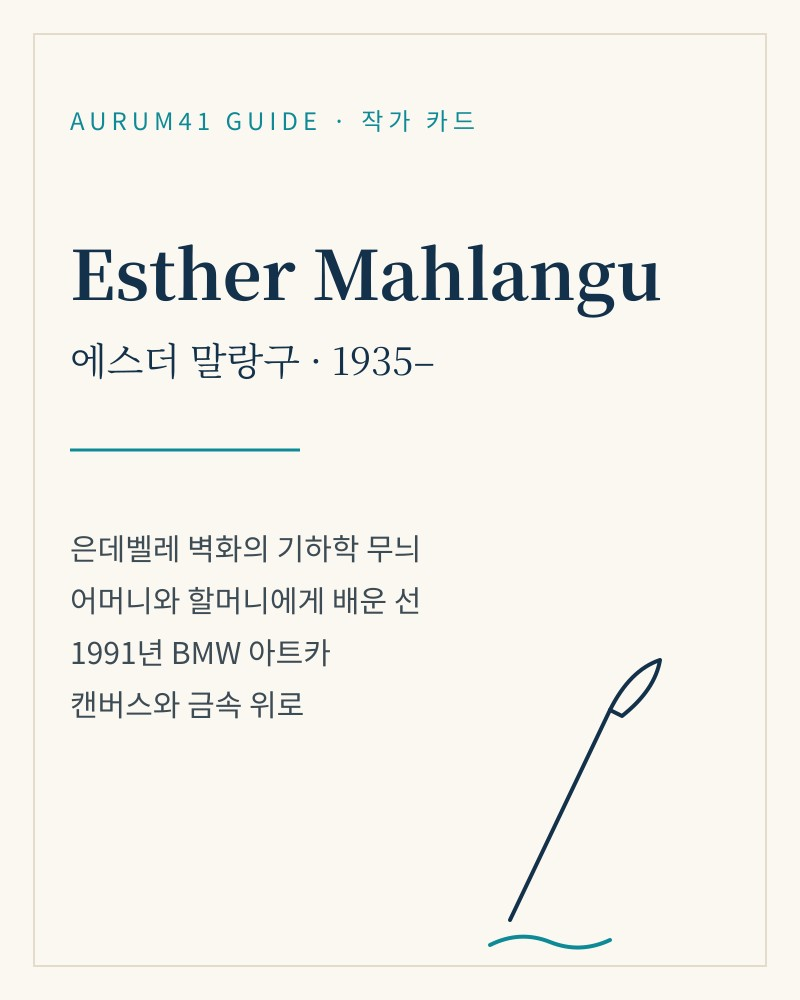
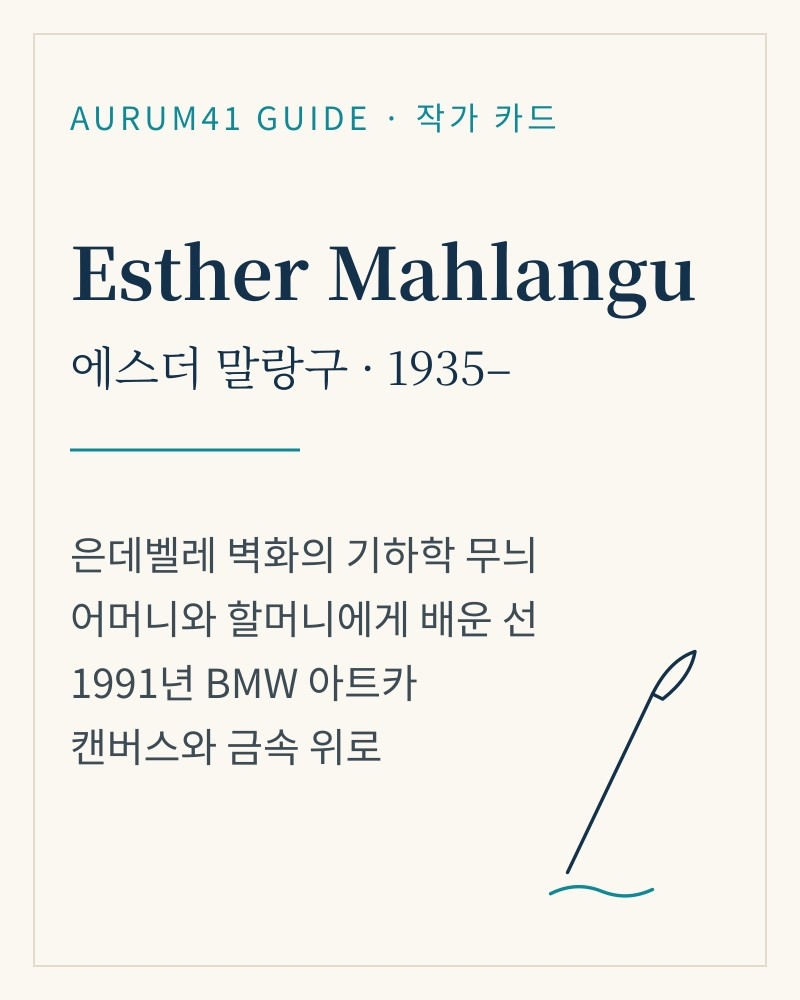
capetown KO z6: artist cards larger text (>=14px on screen)
Claude-Session: https://claude.ai/code/session_01F9LRgiTeBmkJ7htWjS4QcD

diff --git a/blog/capetown/patch/story_1126z6_ko.html b/blog/capetown/patch/story_1126z6_ko.html
@@ -459,7 +459,7 @@ html:not(#z1):not(#z2) .contents_style .fact{background:#EEF7F8!important;border
 <p data-ke-size="size16">덕분에 그 만년필들은 받을 사람보다 남아공 세관에 먼저 인사를 했어요. 수업료&nbsp;2회차, 한&nbsp;자루당 10%.</p>
 <p data-ke-size="size16">처음 손에 쥔 랜드 지폐는 생각보다 빳빳했어요. 초록빛 10랜드엔 코뿔소, 빨간 50랜드엔 사자가 있고, 액수가 클수록 지폐도 조금씩 길어지더라고요. 관세를 내려고 랜드 지폐를 꺼내다 보니, 지폐마다 같은 얼굴이 있더라고요. 넬슨 만델라예요. 궁금해서 찾아보니 2012년부터 모든 지폐 앞면에 만델라가, 뒷면엔 코뿔소·코끼리·사자·버펄로·표범, 이른바 '빅 파이브'가 들어갔대요. 랜드라는 돈은 1961년, 남아공이 영국 파운드를 내려놓고 공화국이 되던 해에 생겼고요. 더 거슬러 올라가 보니 케이프는 1806년부터 영국이 다스렸고, 영국 자치령이던 남아프리카 연방(1910년~) 시절부터 원주민 토지법(1913년) 같은 분리 법이 쌓이다가, 1948년 집권한 국민당 정부가 그걸 아파르트헤이트라는 제도로 굳혔더라고요. 그 제도에 맞서다 27년을 감옥에서 보낸 사람이, 지금 제가 내민 지폐 앞면에 있는 셈이었어요.</p>
 <p data-ke-size="size16">다음에 선물을 들고 국경을 넘을 땐 상대국 면세 한도부터 보려고요. 같은 물건이 여러 개면 상업용으로 볼 수도 있다더라고요.</p>
-<div class="ag-art ag-pause"><p class="ag-art-l" data-ke-size="size16">잠깐, 쉬어 가며</p><div class="ag-art-e ag-art-has"><figure class="ag-art-f fr-card"><img class="afr" src="https://41aurum.github.io/blog/capetown/mag2/card_esther_ko.jpg?v=1" alt="에스더 말랑구 작가 카드 — 은데벨레 벽화의 기하학 무늬, 1991년 BMW 아트카" width="800" height="1000" /><figcaption class="ag-art-c">아우름41 작가 카드 · 작품은 아래 버튼에서 볼 수 있어요</figcaption></figure><div class="ag-art-b"><p class="ag-art-n ic-pal" data-ke-size="size16">에스더 말랑구 (Esther Mahlangu, 1935–)</p><p class="ag-art-p" data-ke-size="size16">세관에서 털린 마음을 기린 선반 앞에서 달래다가, 한&nbsp;사람이 떠올랐어요.</p><p class="ag-art-p" data-ke-size="size16">제가 알아보니 에스더 말랑구라는 작가가 있더라고요. 남아공 은데벨레 여성들이 집 바깥벽에 그려 온 굵은 기하학 무늬를 열 살 무렵 어머니와 할머니에게 배워, 캔버스와 금속으로 옮긴 사람이에요.</p><p class="ag-art-p" data-ke-size="size16">1991년엔 BMW 525i 한&nbsp;대를 통째로 은데벨레 무늬로 칠했대요. BMW 아트카를 맡은 첫 여성이자 첫 비서구 작가였고요. 그 차는 32년 만에 남아공으로 돌아와 케이프타운 이지코 미술관에 전시되기도 했어요.</p><p class="ag-art-p" data-ke-size="size16">이 가게와 직접 관계는 없어요. 그래도 하나하나 다른 기린 무늬 앞에서, 할머니 집 흙벽에서 독일 자동차까지 간 그 선을 떠올려 보는 것도 기념품 가게를 구경하는 또 다른 재미 아닐까 싶네요. 제 그림에도 손으로 그은 선이 많아서, 이 이야기를 떠올리면 선 하나를 더 대담하게 긋게 되더라고요.</p><div class="btns"><a class="btn" href="https://www.artcar.bmwgroup.com/en/art-car/text/Esther-Mahlangu-BMW-525i1991-1375.html" target="_blank" rel="noopener">BMW 아트카 소개 (공식)</a><a class="btn" href="https://en.wikipedia.org/wiki/Esther_Mahlangu" target="_blank" rel="noopener">작가 소개 (Wikipedia)</a></div></div></div></div>
+<div class="ag-art ag-pause"><p class="ag-art-l" data-ke-size="size16">잠깐, 쉬어 가며</p><div class="ag-art-e ag-art-has"><figure class="ag-art-f fr-card"><img class="afr" src="https://41aurum.github.io/blog/capetown/mag2/card_esther_ko.jpg?v=2" alt="에스더 말랑구 작가 카드 — 은데벨레 벽화의 기하학 무늬, 1991년 BMW 아트카" width="800" height="1000" /><figcaption class="ag-art-c">아우름41 작가 카드 · 작품은 아래 버튼에서 볼 수 있어요</figcaption></figure><div class="ag-art-b"><p class="ag-art-n ic-pal" data-ke-size="size16">에스더 말랑구 (Esther Mahlangu, 1935–)</p><p class="ag-art-p" data-ke-size="size16">세관에서 털린 마음을 기린 선반 앞에서 달래다가, 한&nbsp;사람이 떠올랐어요.</p><p class="ag-art-p" data-ke-size="size16">제가 알아보니 에스더 말랑구라는 작가가 있더라고요. 남아공 은데벨레 여성들이 집 바깥벽에 그려 온 굵은 기하학 무늬를 열 살 무렵 어머니와 할머니에게 배워, 캔버스와 금속으로 옮긴 사람이에요.</p><p class="ag-art-p" data-ke-size="size16">1991년엔 BMW 525i 한&nbsp;대를 통째로 은데벨레 무늬로 칠했대요. BMW 아트카를 맡은 첫 여성이자 첫 비서구 작가였고요. 그 차는 32년 만에 남아공으로 돌아와 케이프타운 이지코 미술관에 전시되기도 했어요.</p><p class="ag-art-p" data-ke-size="size16">이 가게와 직접 관계는 없어요. 그래도 하나하나 다른 기린 무늬 앞에서, 할머니 집 흙벽에서 독일 자동차까지 간 그 선을 떠올려 보는 것도 기념품 가게를 구경하는 또 다른 재미 아닐까 싶네요. 제 그림에도 손으로 그은 선이 많아서, 이 이야기를 떠올리면 선 하나를 더 대담하게 긋게 되더라고요.</p><div class="btns"><a class="btn" href="https://www.artcar.bmwgroup.com/en/art-car/text/Esther-Mahlangu-BMW-525i1991-1375.html" target="_blank" rel="noopener">BMW 아트카 소개 (공식)</a><a class="btn" href="https://en.wikipedia.org/wiki/Esther_Mahlangu" target="_blank" rel="noopener">작가 소개 (Wikipedia)</a></div></div></div></div>
 <p data-ke-size="size16">그리고 이 가게에서 동료들 몫 선물을 골랐어요. 돌로 깎은 하마 같은 동물 인형들, 동물 모양 나무로 만든 수제 연필.</p>
 <p data-ke-size="size16">돌이었어요. 이게 나중에 문제가 됩니다.</p>
 </section>
@@ -548,7 +548,7 @@ html:not(#z1):not(#z2) .contents_style .fact{background:#EEF7F8!important;border
 <p data-ke-size="size16">그런데 이 여행에서 가장 오래 남은 장면은 사실 사진에 없어요.</p>
 <p data-ke-size="size16">케이프타운에 도착한 날, 공항에서 시내로 가는 길이었어요. 차창 밖으로 판자를 이어 붙인 집들이 길게 늘어서 있었어요. 바다가 보이는 언덕 위의 집들과, 길가의 그 동네. 같은 도시 안에 너무 다른 풍경이 나란히 있었고, 그 길에서 그 판자촌이 어떤 사람들이 사는 곳인지 분명히 알게 됐어요.</p>
 <div class="fact ic-road"><b>타운십과 아파르트헤이트</b>공항과 시내를 잇는 N2 고속도로는 여러 타운십(township)을 끼고 지나요. 아파르트헤이트(인종 분리) 시대에 1950년 집단지역법으로 백인이 아닌 주민을 도심에서 밀어내 따로 살게 한 동네예요. 법은 1991년에, 아파르트헤이트는 1994년 민주 선거로 끝났지만 타운십은 지금도 그 자리에 있어요.</div>
-<div class="ag-art ag-pause"><p class="ag-art-l" data-ke-size="size16">이 길과 이어진 작가</p><div class="ag-art-e ag-art-has"><figure class="ag-art-f fr-card"><img class="afr" src="https://41aurum.github.io/blog/capetown/mag2/card_peter_ko.jpg?v=1" alt="피터 클라크 작가 카드 — 목판화·콜라주·시, 1972년 오션뷰 강제 이주" width="800" height="1000" /><figcaption class="ag-art-c">아우름41 작가 카드 · 작품은 아래 버튼에서 볼 수 있어요</figcaption></figure><div class="ag-art-b"><p class="ag-art-n ic-pal" data-ke-size="size16">피터 클라크 (Peter Clarke, 1929–2014)</p><p class="ag-art-p" data-ke-size="size16">제가 알아보니 사이먼스타운에서 태어난 화가이자 시인이더라고요. 1972년, 바로 그 집단지역법 때문에 오션뷰로 강제로 옮겨 가야 했대요. 60년 가까이 목판화와 콜라주로 남아공의 사회를 기록해 '조용한 기록자'로 불렸다고 해요.</p><p class="ag-art-p" data-ke-size="size16">제 차창 밖으로 스쳐 간 동네의 안쪽 삶을, 그는 사진 대신 판화로 남겼어요.</p><div class="btns"><a class="btn" href="https://www.sahistory.org.za/people/peter-clarke" target="_blank" rel="noopener">화가 소개 (South African History Online)</a></div></div></div></div>
+<div class="ag-art ag-pause"><p class="ag-art-l" data-ke-size="size16">이 길과 이어진 작가</p><div class="ag-art-e ag-art-has"><figure class="ag-art-f fr-card"><img class="afr" src="https://41aurum.github.io/blog/capetown/mag2/card_peter_ko.jpg?v=2" alt="피터 클라크 작가 카드 — 목판화·콜라주·시, 1972년 오션뷰 강제 이주" width="800" height="1000" /><figcaption class="ag-art-c">아우름41 작가 카드 · 작품은 아래 버튼에서 볼 수 있어요</figcaption></figure><div class="ag-art-b"><p class="ag-art-n ic-pal" data-ke-size="size16">피터 클라크 (Peter Clarke, 1929–2014)</p><p class="ag-art-p" data-ke-size="size16">제가 알아보니 사이먼스타운에서 태어난 화가이자 시인이더라고요. 1972년, 바로 그 집단지역법 때문에 오션뷰로 강제로 옮겨 가야 했대요. 60년 가까이 목판화와 콜라주로 남아공의 사회를 기록해 '조용한 기록자'로 불렸다고 해요.</p><p class="ag-art-p" data-ke-size="size16">제 차창 밖으로 스쳐 간 동네의 안쪽 삶을, 그는 사진 대신 판화로 남겼어요.</p><div class="btns"><a class="btn" href="https://www.sahistory.org.za/people/peter-clarke" target="_blank" rel="noopener">화가 소개 (South African History Online)</a></div></div></div></div>
 <p data-ke-size="size16">그 길에서 확신했어요. 우리나라가 일본 제국에서 독립하지 못했다면, 저 풍경이 우리의 모습이었을 거라고요.</p>
 <p data-ke-size="size16">지배하는 쪽과 지배당하는 쪽으로 갈린 땅에서는, 누가 바다가 보이는 언덕에 살고 누가 길가 판잣집에 사는지가 태어나기 전에 이미 정해져요. 그 선을 그은 법이 사라진 뒤에도, 선은 도시의 지도에 오래 남고요.</p>
 <p data-ke-size="size16">돌아와서 수업료를 정산해 봤어요.</p><div class="mg-rcw"><figure class="mg-spread mg-narrow"><img src="https://41aurum.github.io/blog/capetown/mag2/mag_receipt_ko.jpg?v=12" alt="감열지에 찍힌 수업료 영수증 — 목 근육, 만년필 관세, 돌 하마, 시세 스무 배, 합계 남는 장사" width="1080" height="2000" /></figure><p class="mg-side" data-ke-size="size16"><b>정산</b><br />낸 것은 목 근육, 관세, 시세 스무&nbsp;배. 받은 것은 160년 된 바위와 체리 초콜릿, 그리고 이야기 몇&nbsp;개.</p></div><p data-ke-size="size16">영수증만 보면 손해 본 여행인데, 받은 것까지 세어 보니 남는 장사였네요.</p>
